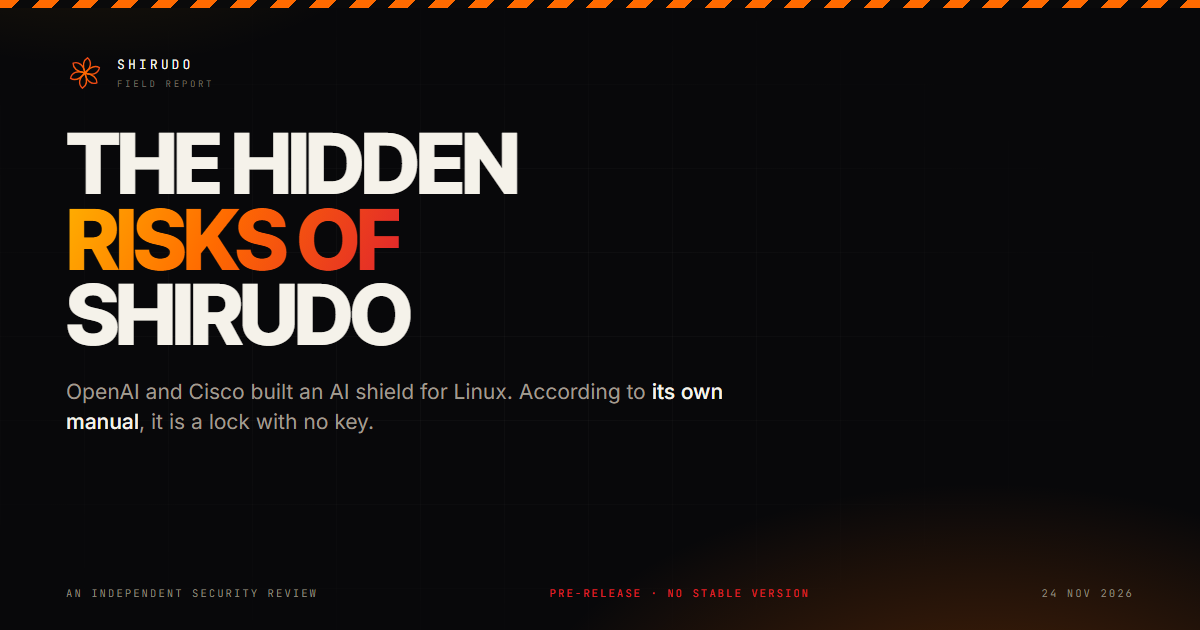
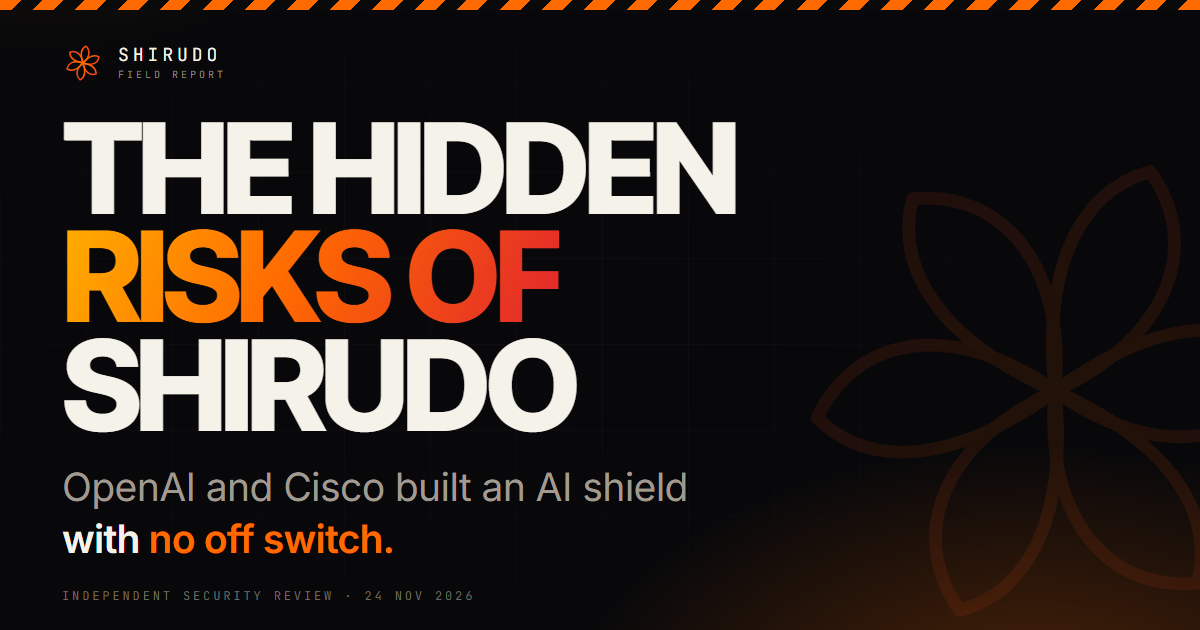
Enlarge OG card typography for social timelines

diff --git a/og.html b/og.html
@@ -5,31 +5,32 @@
 <title>og</title>
 <link rel="preconnect" href="https://fonts.googleapis.com">
 <link rel="preconnect" href="https://fonts.gstatic.com" crossorigin>
-<link href="https://fonts.googleapis.com/css2?family=Inter+Tight:wght@700;800&family=Inter:wght@400;500&family=JetBrains+Mono:wght@400;500&display=swap" rel="stylesheet">
+<link href="https://fonts.googleapis.com/css2?family=Inter+Tight:wght@700;800&family=Inter:wght@400;500;600&family=JetBrains+Mono:wght@400;500&display=swap" rel="stylesheet">
 <style>
   html,body{margin:0;width:1200px;height:630px;overflow:hidden;background:#08080a}
   .card{position:relative;width:1200px;height:630px;overflow:hidden}
-  .tape{position:absolute;top:0;left:0;right:0;height:8px;background:repeating-linear-gradient(135deg,#ff6a00 0 14px,#0a0a0b 14px 28px);z-index:3}
+  .tape{position:absolute;top:0;left:0;right:0;height:10px;background:repeating-linear-gradient(135deg,#ff6a00 0 15px,#0a0a0b 15px 30px);z-index:4}
   .glow{position:absolute;inset:0;background:
-    radial-gradient(760px 440px at 82% 120%,rgba(255,106,0,.30),transparent 62%),
-    radial-gradient(560px 320px at 8% -20%,rgba(255,176,0,.12),transparent 60%);}
-  .grid{position:absolute;inset:0;opacity:.5;background-image:
-    linear-gradient(rgba(245,242,234,.055) 1px,transparent 1px),
-    linear-gradient(90deg,rgba(245,242,234,.055) 1px,transparent 1px);
-    background-size:84px 84px;
-    -webkit-mask-image:radial-gradient(ellipse 75% 75% at 40% 50%,#000 25%,transparent 80%);
-    mask-image:radial-gradient(ellipse 75% 75% at 40% 50%,#000 25%,transparent 80%);}
-  .wrap{position:relative;z-index:2;padding:54px 66px 0}
-  .brand{display:flex;align-items:center;gap:13px}
-  .brand svg{width:38px;height:38px}
-  .brand span{font-family:"JetBrains Mono",monospace;font-size:13px;letter-spacing:.24em;color:#f5f2ea;text-transform:uppercase}
-  .brand em{display:block;font-style:normal;font-size:9px;letter-spacing:.3em;color:#6d685f;margin-top:5px}
-  h1{font-family:"Inter Tight",sans-serif;font-weight:800;font-size:84px;line-height:.9;letter-spacing:-.045em;color:#f5f2ea;text-transform:uppercase;margin:34px 0 0}
+    radial-gradient(760px 460px at 86% 116%,rgba(255,106,0,.30),transparent 62%),
+    radial-gradient(560px 340px at 4% -24%,rgba(255,176,0,.10),transparent 60%);}
+  .grid{position:absolute;inset:0;opacity:.45;background-image:
+    linear-gradient(rgba(245,242,234,.06) 1px,transparent 1px),
+    linear-gradient(90deg,rgba(245,242,234,.06) 1px,transparent 1px);
+    background-size:86px 86px;
+    -webkit-mask-image:radial-gradient(ellipse 80% 80% at 38% 50%,#000 20%,transparent 82%);
+    mask-image:radial-gradient(ellipse 80% 80% at 38% 50%,#000 20%,transparent 82%);}
+  .bigmark{position:absolute;right:-150px;top:96px;width:590px;height:590px;opacity:.10;transform:rotate(14deg);z-index:1}
+  .wrap{position:relative;z-index:3;padding:42px 62px 0}
+  .brand{display:flex;align-items:center;gap:14px}
+  .brand svg{width:42px;height:42px}
+  .brand span{font-family:"JetBrains Mono",monospace;font-size:18px;letter-spacing:.22em;color:#f5f2ea;text-transform:uppercase;line-height:1}
+  .brand em{display:block;font-style:normal;font-size:10px;letter-spacing:.3em;color:#8a857b;margin-top:6px}
+  h1{font-family:"Inter Tight",sans-serif;font-weight:800;font-size:126px;line-height:.86;letter-spacing:-.048em;color:#f5f2ea;text-transform:uppercase;margin:30px 0 0}
   h1 span{background:linear-gradient(115deg,#ffb000 0%,#ff6a00 46%,#e0242e 100%);-webkit-background-clip:text;background-clip:text;color:transparent}
-  .deck{font-family:"Inter",sans-serif;font-size:21px;line-height:1.45;color:#a09b90;max-width:730px;margin-top:24px}
-  .deck b{color:#f5f2ea;font-weight:500}
-  .meta{position:absolute;z-index:2;left:66px;right:66px;bottom:30px;display:flex;justify-content:space-between;font-family:"JetBrains Mono",monospace;font-size:10.5px;letter-spacing:.2em;color:#8a857b;text-transform:uppercase}
-  .meta .red{color:#e0242e}
+  .deck{font-family:"Inter",sans-serif;font-size:39px;line-height:1.32;color:#a09b90;margin-top:22px;letter-spacing:-.015em}
+  .deck b{display:block;color:#f5f2ea;font-weight:600;letter-spacing:-.02em}
+  .deck b i{font-style:normal;color:#ff6a00}
+  .foot{position:absolute;left:62px;bottom:26px;z-index:3;font-family:"JetBrains Mono",monospace;font-size:12px;letter-spacing:.24em;color:#6d685f;text-transform:uppercase}
 </style>
 </head>
 <body>
@@ -37,6 +38,17 @@
   <div class="tape"></div>
   <div class="glow"></div>
   <div class="grid"></div>
+  <svg class="bigmark" viewBox="0 0 120 120" aria-hidden="true">
+    <defs><linearGradient id="bg" gradientUnits="userSpaceOnUse" x1="0" y1="120" x2="120" y2="0">
+      <stop offset="0" stop-color="#ffb000"/><stop offset=".5" stop-color="#ff6a00"/><stop offset="1" stop-color="#e0242e"/>
+    </linearGradient></defs>
+    <g fill="none" stroke="url(#bg)" stroke-width="2.6" stroke-linecap="round" stroke-linejoin="round">
+      <path id="bp" d="M60 60C52 38 54 20 68 12C82 24 80 44 60 60Z"/>
+      <use href="#bp" transform="rotate(60 60 60)"/><use href="#bp" transform="rotate(120 60 60)"/>
+      <use href="#bp" transform="rotate(180 60 60)"/><use href="#bp" transform="rotate(240 60 60)"/>
+      <use href="#bp" transform="rotate(300 60 60)"/>
+    </g>
+  </svg>
   <div class="wrap">
     <div class="brand">
       <svg viewBox="0 0 120 120" aria-hidden="true">
@@ -53,9 +65,9 @@
       <span>Shirudo<em>Field report</em></span>
     </div>
     <h1>The hidden<br><span>risks of</span><br>Shirudo</h1>
-    <div class="deck">OpenAI and Cisco built an AI shield for Linux. According to <b>its own manual</b>, it is a lock with no key.</div>
+    <div class="deck">OpenAI and Cisco built an AI shield<b>with <i>no off switch.</i></b></div>
   </div>
-  <div class="meta"><span>An independent security review</span><span class="red">Pre-release · no stable version</span><span>24 Nov 2026</span></div>
+  <div class="foot">Independent security review · 24 Nov 2026</div>
 </div>
 </body>
 </html>
